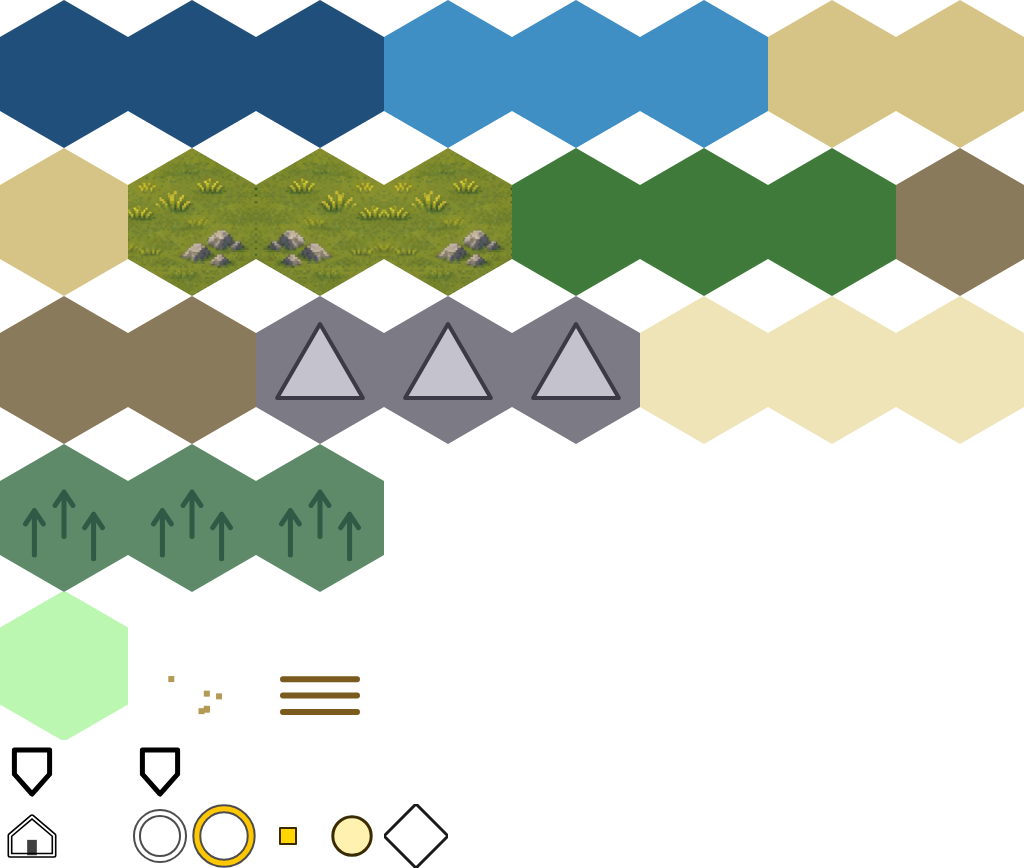
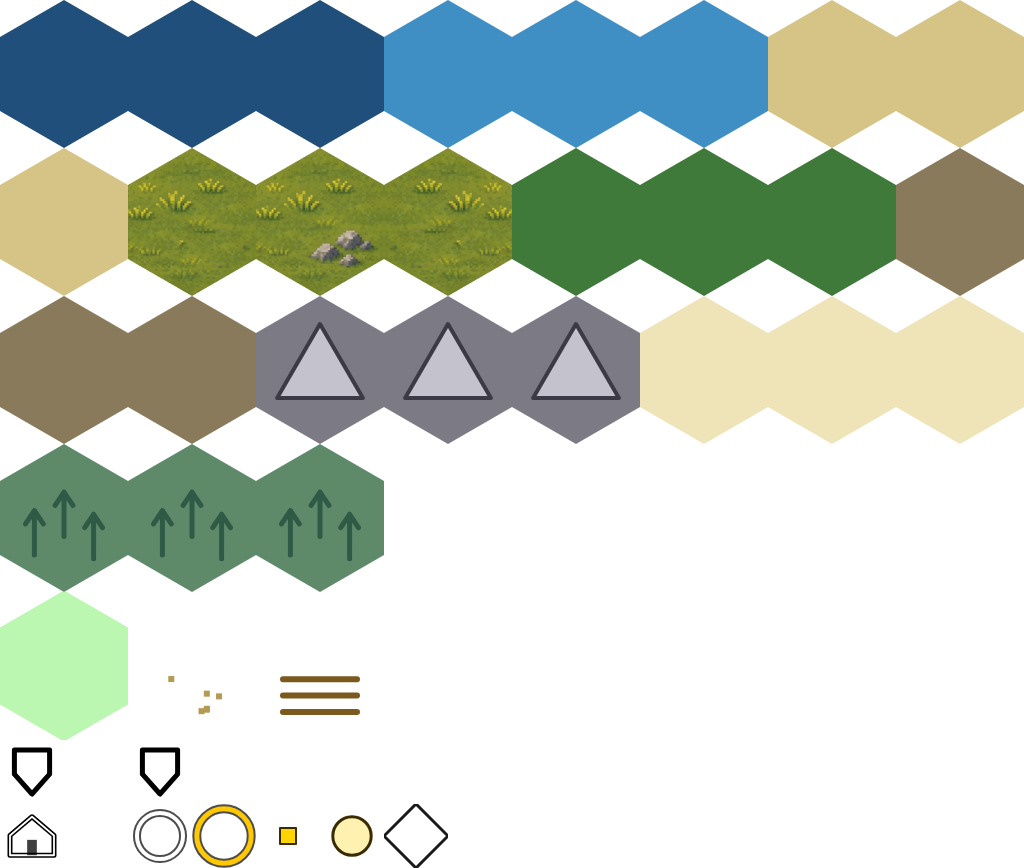
#439 build-2: the plains tile

Changed region(s): [[0.1562, 0.1866, 0.5, 0.3111]]

diff --git a/engine/www/map/layers/terrain.js b/engine/www/map/layers/terrain.js
@@ -32,7 +32,7 @@ export function draw(ctx, model, view) {
       b.push(i);
     }
     for (const [key, list] of buckets) {
-      ctx.fillStyle = TERRAIN_COLOR[key] || '#f0f';
+      ctx.fillStyle = view.atlas?.json.cells[`terrain.${key}.0`]?.flat || TERRAIN_COLOR[key] || '#f0f';
       ctx.beginPath();
       for (const i of list) view.hexAt(ctx, i, OVER);
       ctx.fill();
@@ -44,12 +44,24 @@ export function draw(ctx, model, view) {
     const desert = view.byName.desert;
     const dots = k >= 9 ? atlas.scaled('overlay.desert-dots', H) : null;
     ctx.setTransform(1, 0, 0, 1, 0, 0);
+    // Each cell's anchor, scaled to the drawn size, lands on the tile's centre; read once per draw.
+    const placed = new Map();
+    const place = (name) => {
+      let p = placed.get(name);
+      if (!p) {
+        const cell = atlas.cell(name);
+        const img = atlas.scaled(name, H);
+        p = { img, ax: ((cell.ax ?? cell.w / 2) * img.width) / cell.w, ay: ((cell.ay ?? cell.h / 2) * H) / cell.h };
+        placed.set(name, p);
+      }
+      return p;
+    };
     let n = 0;
     for (let a = 0; a < view.nvis; a++) {
       const i = view.vis[a];
-      const img = atlas.scaled(`terrain.${kind(i)}.${i % 3}`, H);
-      const x = Math.round(((view.px[i] - view.cx) * k + view.w / 2) * dpr - img.width / 2);
-      const y = Math.round(((view.py[i] - view.cy) * k + view.h / 2) * dpr - H / 2);
+      const { img, ax, ay } = place(`terrain.${kind(i)}.${i % 3}`);
+      const x = Math.round(((view.px[i] - view.cx) * k + view.w / 2) * dpr - ax);
+      const y = Math.round(((view.py[i] - view.cy) * k + view.h / 2) * dpr - ay);
       ctx.drawImage(img, x, y);
       if (dots && l.terrain[i] === desert) ctx.drawImage(dots, x, y);
       n++;

diff --git a/engine/www/assets/sources.js b/engine/www/assets/sources.js
@@ -10,15 +10,29 @@ export const REGIONS = {
     file: 'terrain',
     hex: { cx: 551.5, cy: 854, rx: 96.5, ry: 109 },   // half-width, circumradius
     inset: 3,                                          // drops the drawn outline
+    insetRight: 5,                                     // the right edge keeps a dark line at 3
     patches: [{ from: [555, 790], to: [452, 828], w: 72, h: 70, feather: 8,
                 note: "hex 2's hill runs into the lower left: grass and a tuft over it" }],
     note: 'bottom-left row, third hex: grass, tufts and rocks',
+  },
+  'plains.clean': {
+    file: 'terrain',
+    hex: { cx: 551.5, cy: 854, rx: 96.5, ry: 109 },
+    inset: 3,
+    insetRight: 5,
+    patches: [
+      { from: [555, 790], to: [452, 828], w: 72, h: 70, feather: 8,
+        note: "hex 2's hill runs into the lower left: grass and a tuft over it" },
+      { from: [541, 806], to: [530, 862], w: 99, h: 58, feather: 6,
+        note: 'the rocks at the lower right: clean grass from above them' },
+    ],
+    note: 'the same hex with the rocks patched out: a plains tile that is not a grey blob at play zoom',
   },
 };
 
 /** The atlas cells cut from regions, by atlas key: each replaces that placeholder in place. */
 export const CELLS = {
-  'terrain.plains.0': { region: 'plains.grass', ops: [], anchor: 'centre' },
-  'terrain.plains.1': { region: 'plains.grass', ops: ['mirror'], anchor: 'centre' },
-  'terrain.plains.2': { region: 'plains.grass', ops: [], anchor: 'centre' },
+  'terrain.plains.0': { region: 'plains.clean', ops: [], anchor: 'centre' },
+  'terrain.plains.1': { region: 'plains.grass', ops: [], anchor: 'centre' },
+  'terrain.plains.2': { region: 'plains.clean', ops: ['mirror'], anchor: 'centre' },
 };

diff --git a/relay/specs/439/views.md b/relay/specs/439/views.md
@@ -1,0 +1,70 @@
+# #439 build-2 (canvas): the plains tile on the map
+
+## `--diff`, main (0fd7835) against the branch
+
+Both shot with `www/shots.mjs` (main's from a worktree with this branch's copy and the same wasm: no Rust
+changed). The cameras (tile, `cx`, `cy`, `k`) match on all ten views.
+
+| View | Changed share |
+|---|---|
+| small2-close | 19.206% |
+| small2-play | 8.786% |
+| small2-edge | 3.162% |
+| small2-flat | 2.297% |
+| small3-play | 3.086% |
+| small6-play | 7.706% |
+| small9-play | 4.914% |
+| medium8-play | 10.642% |
+| medium9-play | 5.169% |
+| large8-play | 25.553% |
+
+Every view has plains on screen, so there is no placeholder-only view. To show nothing but plains changed, `CELLS`
+was emptied in a scratch edit and the atlas rebuilt: `small2-play`, `small2-flat` and `medium8-play` then differ
+from main by 0 pixels, so the anchor and flat-colour code in `terrain.js` moves nothing else. (Reverted.)
+Two branch runs of all ten views give byte-identical PNGs.
+
+## The atlas repeats
+
+```
+6a0b0558a02b378c0a9cfa92a17263288c2627e38eef1cf5d358ab56e6175365  www/assets/atlas.png
+b36d382c64a2c71a47c2ea6bbbfc7053aaf5d50e10bc27c7919218d701845f68  www/assets/atlas.json
+```
+
+Two runs of `node www/assets/draw-atlas.mjs`, the same hashes; `--check` passes.
+
+## What changed from the easel's cut, and why
+
+- **Rocks on one tile in three.** `.1` (the `plains.grass` region, rocks in) stays; `.0` and `.2` come from a new
+  region `plains.clean`: the same hex, the same hill patch, and a second patch (source (541,806), 99×58, feather 6,
+  over (530,862)) that covers the rocks with grass from above them. `.2` is `.0` mirrored. At k 18 the rocks were
+  grey blobs the size of the map's hearths and grain circles on every plains tile; on one in three they read as
+  small rocks, and the plain tiles dominate. `.0` is the flat colour's source and is the rock-free mean (`#7b882d`),
+  so the flat fill is the colour the land mostly is.
+- **The right edge inset is 5** (`insetRight`, `cut.mjs` moves the hex's centre by half the difference): at 3 a
+  dotted dark line stayed on the hex's right edge, at 5 it is gone and the left edge, still at 3, is clean.
+- **The rocks patch starts 7 px further left** than the rocks, because a 2-px grey remnant of the rock showed to
+  its left at 537.
+- `terrain.js` draws by the anchor (read once per draw, per distinct cell, scaled to the drawn size) and fills a
+  kind's flat colour from its variant-0 cell's `flat` where it has one.
+
+## How each point reads in the captures
+
+- **Edge, outline, hill.** No outline, no hill, no seam in `small2-close` (k 35) or `small2-play`; neighbours
+  meet as the placeholders do. The k ≥ 14 hex outline is main's and is the only line between plains.
+- **Variants.** Three in a row read as grass with tufts, one with rocks; the tufts sit in different places in `.0`
+  and `.2` (mirror), so a run of plains doesn't read as a stamp. At k 18 the rocks are small grey clusters on a
+  third of the tiles, lower right, and are not mistaken for a hearth (white ring) or a grain circle (round, with a
+  stalk).
+- **Rivers, trails, fields, borders, clans, icons, units.** In `small2-play` the river is as easy to see on the
+  olive as on the lime (blue against green both ways); field squares and the clan circles keep their contrast;
+  squares.
+- **Zoom boundary.** `small2-edge` (cells) and `small2-flat` (fill) give plains the same olive at a glance; the
+  fill had been the placeholder's bright green.
+- **Beside the placeholders.** The olive is darker and more yellow than the placeholder forest/hill/desert
+  neighbours, but sits between them without clashing; sea and mountains are unchanged.
+
+## Selection and zoom
+
+Page check, `?size=small&seed=2&run=1` led to the main game, selecting a plains tile (585), then a clan's tile
+(37, focus on clan 25), zooming 0.4×, 0.4×, 3×, 3× (k 20 → 8 → 6.6 → 19.9 → 35): the same `selected`, `focus`,
+`k` and cell counts as main's worktree, no page errors. The map crosses no flat boundary on a laptop.
